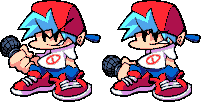
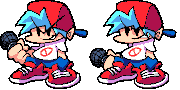
Dialogues almost done

diff --git a/src/stage.c b/src/stage.c
@@ -56,12 +56,23 @@ enum
 {
 	Dialogue_BF_Normal,
 	Dialogue_BF_Confused,
+	
 	Dialogue_Psychic_Normal,
 	Dialogue_Psychic_Confused,
 	Dialogue_Psychic_Excited,
 	Dialogue_Psychic_Shock,
 	Dialogue_Psychic_Unamused,
 	Dialogue_Psychic_Annoyed,
+	
+	Dialogue_Senpai_Normal,
+	Dialogue_Senpai_Shock,
+	Dialogue_Senpai_Nervous,
+	Dialogue_Senpai_Pissed,
+	
+	Dialogue_Spirit_Normal,
+	
+	Dialogue_Floppa_Normal,
+	Dialogue_Floppa_Pissed,
 	
 	Dialogue_Max,
 };
@@ -70,6 +81,9 @@ static const char** portrait_tims = (const char *[]){
 	"bf.tim",
 	"psychic0.tim",
 	"psychic1.tim",
+	"senpai.tim",
+	"spirit.tim",
+	"floppa.tim",
 	NULL,
 };
 
@@ -79,14 +93,21 @@ static const struct
 	RECT src;
 	POINT pos; //Position
 } portraits[] = {
-	{0, {  0,   0, 101, 102}, {65, 40}}, //BF normal
-	{0, {102,   0,  99, 102}, {65, 40}}, //BF confused
+	{0, {  0,   0,  88,  89}, {55, 33}}, //BF normal
+	{0, { 89,   0,  88,  89}, {55, 33}}, //BF confused
 	{1, {  0,   0, 129, 112}, {64, 56}}, //Psychic normal
 	{1, {130,   0, 117, 115}, {64, 56}}, //Psychic confused
 	{1, {  0, 113, 128, 117}, {64, 56}}, //Psychic excited
 	{1, {128, 115, 126, 122}, {64, 56}}, //Psychic shock
 	{2, {  0,   0, 128, 112}, {64, 56}}, //Psychic unamused
 	{2, {129,   0, 107, 104}, {64, 56}}, //Psychic annoyed
+	{3, {  0,   0,  78,  94}, {50, 36}}, //BF Senpai normal
+	{3, { 79,   0,  84,  99}, {50, 36}}, //BF Senpai shock
+	{3, {  0,  95,  79,  94}, {50, 36}}, //BF Senpai nervous
+	{3, { 80, 100,  79,  94}, {50, 36}}, //BF Senpai pissed
+	{4, {  0,   0,  83, 122}, {41, 61}}, //Spirit Normal
+	{5, {  0,   0, 112, 127}, {56, 63}}, //Floppa Normal
+	{5, {113,   0, 128,  95}, {56, 63}}, //Floppa Pissed
 };
 
 //welcome to the shitshow
@@ -3585,33 +3606,33 @@ void Stage_Tick(void)
             };
 
             static Dialogue_Struct wiltdia[] = {
-                {"Welp, you got me!", 0, Dialogue_BF_Normal, 0},
-                {"You're very clever, I'll give you that much.", 0, Dialogue_BF_Normal, 0},
-                {"No ordinary person would have seen\nthrough my facade.", 0, Dialogue_BF_Normal, 0},
+                {"Welp, you got me!", 0, Dialogue_Senpai_Normal, 0},
+                {"You're very clever, I'll give you that much.", 0, Dialogue_Senpai_Normal, 0},
+                {"No ordinary person would have seen\nthrough my facade.", 0, Dialogue_Senpai_Normal, 0},
                 {"Yeah, um...", 1, Dialogue_Psychic_Unamused, 0},
                 {"...Who are you again?", 1, Dialogue_Psychic_Shock, 0},
-                {"Kh...!", 0, Dialogue_BF_Normal, 1},
-                {"You don't even remember me?!", 0, Dialogue_BF_Normal, 0},
+                {"Kh...!", 0, Dialogue_Senpai_Shock, 1},
+                {"You don't even remember me?!", 0, Dialogue_Senpai_Shock, 0},
                 {"Not in the slightest.", 1, Dialogue_Psychic_Confused, 0},
-                {"Seriously?! W-Whatever!", 0, Dialogue_BF_Normal, 1},
-                {"Now listen here!", 0, Dialogue_BF_Normal, 0},
-                {"I've taken this body hostage, so\ndon't even try anything!", 0, Dialogue_BF_Normal, 0},
-                {"Summon Daddy Dearest here this instant,\nor else he gets it!",0, Dialogue_BF_Normal, 0},
+                {"Seriously?! W-Whatever!", 0, Dialogue_Senpai_Nervous, 1},
+                {"Now listen here!", 0, Dialogue_Senpai_Nervous, 0},
+                {"I've taken this body hostage, so\ndon't even try anything!", 0, Dialogue_Senpai_Nervous, 0},
+                {"Summon Daddy Dearest here this instant,\nor else he gets it!",0, Dialogue_Senpai_Nervous, 0},
                 {"...Daddy Dearest, huh..?", 1, Dialogue_Psychic_Confused, 0},
                 {"I don't know what your deal is, but...", 1, Dialogue_Psychic_Unamused, 0},
                 {"I don't take commands from freaks of\nnature like you.", 1, Dialogue_Psychic_Excited, 0},
-                {"What did you just call me?!", 0, Dialogue_BF_Normal, 1},
+                {"What did you just call me?!", 0, Dialogue_Senpai_Pissed, 1},
             };
 
             static Dialogue_Struct uproardia[] = {
                 {"At least that guy's gone, he was\ngetting on my nerves.", 1, Dialogue_Psychic_Annoyed, 0},
                 {"Let me guess, you're another thorn\nin my side, huh?", 1, Dialogue_Psychic_Unamused, 0},
-                {". . .", 0, Dialogue_BF_Normal, 0},
-                {"...You took the words straight\nfrom my mouth...", 0, Dialogue_BF_Normal, 0},
-                {"I had finally escaped that wretched\ngame, and of course YOU\nare here to greet me...", 0, Dialogue_BF_Normal, 0},
-                {"...No matter...", 0, Dialogue_BF_Normal, 0},
-                {"...I'll just kill you and finally get\nmy revenge... It's really that simple...", 0, Dialogue_BF_Normal, 0},
-                {"...You don't mind your body being\ndissipated, right? It's only fair...", 0, Dialogue_BF_Normal, 0},
+                {". . .", 0, Dialogue_Spirit_Normal, 0},
+                {"...You took the words straight\nfrom my mouth...", 0, Dialogue_Spirit_Normal, 0},
+                {"I had finally escaped that wretched\ngame, and of course YOU\nare here to greet me...", 0, Dialogue_Spirit_Normal, 0},
+                {"...No matter...", 0, Dialogue_Spirit_Normal, 0},
+                {"...I'll just kill you and finally get\nmy revenge... It's really that simple...", 0, Dialogue_Spirit_Normal, 0},
+                {"...You don't mind your body being\ndissipated, right? It's only fair...", 0, Dialogue_Spirit_Normal, 0},
                 {"You took the words straight from my mouth.", 1, Dialogue_Psychic_Excited, 0},
             };
 
@@ -3624,22 +3645,15 @@ void Stage_Tick(void)
                 {"Eep skee dah?", 0, Dialogue_BF_Normal, 0},
                 {"Since we're here anyway, I suppose one song\ncouldn't hurt.", 1, Dialogue_Psychic_Normal, 0},
             };
-            static const struct
-            {
-                const char *text; //The text that is displayed
-                u8 camera; //Who the camera is pointing at, 0 for bf, 1 for dad
-                int port1;
-                int port2;
-                int diaboxes;
-            }flopdia[] = {
-                {"Meow!",0, 13, 15, 0},
-                {"Beep.",1, 15, 6, 0},
-                {"HISSS",0, 14, 15, 1},
-                {"Bep bee aa skoo dep?",1, 15, 12, 0},
-                {"Meow Meow",0, 13, 15, 0},
-                {"Hiss",0, 14, 15, 1},
-                {"Beep bop!",1, 15, 6, 0},
-                {"HISSSS!!",0, 14, 15, 1},
+            static Dialogue_Struct flopdia[] = {
+                {"Meow!", 1, Dialogue_Floppa_Normal, 0},
+                {"Beep.", 0, Dialogue_BF_Normal, 0},
+                {"HISSS", 1, Dialogue_Floppa_Pissed, 1},
+                {"Bep bee aa skoo dep?", 0, Dialogue_BF_Confused, 0},
+                {"Meow Meow", 1, Dialogue_Floppa_Normal, 0},
+                {"Hiss", 1, Dialogue_Floppa_Pissed, 1},
+                {"Beep bop!", 0, Dialogue_BF_Normal, 0},
+                {"HISSSS!!", 1, Dialogue_Floppa_Pissed, 1},
             };
 
             //Clear per-frame flags
@@ -3667,6 +3681,10 @@ void Stage_Tick(void)
 					dialoguep = latedrivedia;
 					dialogue_final = COUNT_OF(latedrivedia);
 				break;
+				case StageId_2_3:
+					dialoguep = flopdia;
+					dialogue_final = COUNT_OF(flopdia);
+				break;
 				default:
 					dialoguep = psydia;
 					dialogue_final = COUNT_OF(psydia);
@@ -3678,7 +3696,8 @@ void Stage_Tick(void)
 			if (stage.delect == dialogue_final)
 			{
 				Audio_StopXA();
-				Stage_LoadStage();
+				if (stage.stage_id == StageId_1_2)
+					Stage_LoadStage();
 				stage.state = StageState_Play;
 				Stage_UnLoadDia();
 			}
@@ -3725,8 +3744,8 @@ void Stage_Tick(void)
 					Stage_DrawTex(&stage.tex_dia, &dia2_src, &dia2_dst, stage.bump);
 				}
 				
-				int pos_x = (dialoguep[stage.delect].camera) ? SCREEN_WIDTH2 - 50 : SCREEN_WIDTH - 50;
-				int pos_y = SCREEN_HEIGHT2;
+				int pos_x = (dialoguep[stage.delect].camera) ? SCREEN_WIDTH2 - 60 : SCREEN_WIDTH - 60;
+				int pos_y = SCREEN_HEIGHT2 + 5;
 				
 				//Draw Character portrait
 				RECT dst = {

diff --git a/src/stagedef_disc1.h b/src/stagedef_disc1.h
@@ -32,7 +32,7 @@
 		XA_Wilter, 2,
 		1, //dialogue check
 		XA_Loveisaflower, 1,
-		{"\\PORTRAIT\\BF.ARC;1", "\\PORTRAIT\\PSYCHIC.ARC;1"},
+		{"\\PORTRAIT\\SENPAI.ARC;1", "\\PORTRAIT\\PSYCHIC.ARC;1"},
 		
 		StageId_1_6, STAGE_LOAD_FLAG | STAGE_LOAD_PLAYER | STAGE_LOAD_STAGE
 	},
@@ -51,7 +51,7 @@
 		XA_Uproar, 0,
 		1, //dialogue check
 		XA_Spiritualunrest, 2,
-		{"\\PORTRAIT\\BF.ARC;1", "\\PORTRAIT\\PSYCHIC.ARC;1"},
+		{"\\PORTRAIT\\SPIRIT.ARC;1", "\\PORTRAIT\\PSYCHIC.ARC;1"},
 		
 		StageId_1_3, 0
 	},
@@ -167,7 +167,7 @@
 		XA_Flopchic, 0,
 		1,
 		XA_Psy, 0,
-		{NULL, NULL},
+		{"\\PORTRAIT\\BF.ARC;1", "\\PORTRAIT\\FLOPPA.ARC;1"},
 		
 		StageId_2_3, 0
 	},
